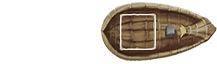
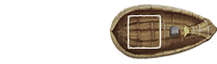
layout structure changes

Changed region(s): [[0.4424, 0.0312, 1.0, 0.9688]]

diff --git a/src/app/game/departing-harbour/departing-harbour.component.css b/src/app/game/departing-harbour/departing-harbour.component.css
@@ -5,44 +5,26 @@
   padding-left: 1%;
 }
 
-.departing_harbour_1{
+.departing_harbour{
   width: 100%;
   height:25%;
-  border: 1px solid red;
 }
 
-.departing_harbour_2{
-  width: 100%;
-  height:25%;
-  border: 1px solid red;
-}
-
-.departing_harbour_3{
-  width: 100%;
-  height:25%;
-  border: 1px solid red;
-}
-
-.departing_harbour_4{
-  width: 100%;
-  height:25%;
-  border: 1px solid red;
-}
-
+/* Ship 1 is on the bottom, ship 4 on top */
 .ship_1{
-  position:relative; top:30%; left:20%; width:225px; height:70px; border: 1px solid #54ff50;
+  position:relative; top:20%; width:225px; height:70px;
   background-image:url("../../../assets/images/ship_1.png"); background-repeat: no-repeat;
   background-position: center;
 }
-.ship_2{position:relative; top:30%; left:20%; width:225px; height:70px; border: 1px solid #54ff50;
+.ship_2{position:relative; top:20%; width:225px; height:70px;
   background-image:url("../../../assets/images/ship_2.png"); background-repeat: no-repeat;
   background-position: center;
 }
-.ship_3{position:relative; top:30%; left:20%; width:225px; height:70px; border: 1px solid #54ff50;
+.ship_3{position:relative; top:20%; width:225px; height:70px;
   background-image:url("../../../assets/images/ship_3.png"); background-repeat: no-repeat;
   background-position: center;
 }
-.ship_4{position:relative; top:30%; left:20%; width:225px; height:70px; border: 1px solid #54ff50;
+.ship_4{position:relative; top:20%; width:225px; height:70px;
   background-image:url("../../../assets/images/ship_4.png"); background-repeat: no-repeat;
   background-position: center;
 }
@@ -50,29 +32,26 @@
 .ship_slots{
   width: 77%;
   height:100%;
-  border: 1px solid #ff47e1;
 }
 
-#ship_1_slot_1{ width: 25%; height:100%; float:right; border: 1px solid #0c0c0c; }
-#ship_1_slot_2{ width: 25%; height:100%; float:right; border: 1px solid #0c0c0c; }
-#ship_1_slot_3{ width: 25%; height:100%; float:right; border: 1px solid #0c0c0c; }
-#ship_1_slot_4{ width: 25%; height:100%; float:right; border: 1px solid #0c0c0c; }
+#ship_1_slot_1{ margin-top: 10%; margin-right: 3%; margin-left: 2.3%; width: 19.5%; height:51%; float:right; border: 1px solid #0c0c0c; }
+#ship_1_slot_2{ margin-top: 10%; margin-left: 2.3%;  width: 19.5%; height:51%; float:right; border: 1px solid #0c0c0c; }
+#ship_1_slot_3{ margin-top: 10%; margin-left: 2.3%;  width: 19.5%; height:51%; float:right; border: 1px solid #0c0c0c; }
+#ship_1_slot_4{ margin-top: 10%; margin-left: 2.3%;  width: 19.5%; height:51%; float:right; border: 1px solid #0c0c0c; }
 
-#ship_2_slot_1{ width: 25%; height:100%; float:right; border: 1px solid #0c0c0c; }
-#ship_2_slot_2{ width: 25%; height:100%; float:right; border: 1px solid #0c0c0c; }
-#ship_2_slot_3{ width: 25%; height:100%; float:right; border: 1px solid #0c0c0c; }
-#ship_2_slot_4{ width: 25%; height:100%; float:right; border: 1px solid #0c0c0c; }
+#ship_2_slot_1{ margin-top: 10%; margin-right: 3%; margin-left: 2.3%; width: 19.5%; height:51%; float:right; border: 1px solid #0c0c0c; }
+#ship_2_slot_2{ margin-top: 10%; margin-left: 2.3%;  width: 19.5%; height:51%; float:right; border: 1px solid #0c0c0c; }
+#ship_2_slot_3{ margin-top: 10%; margin-left: 2.3%;  width: 19.5%; height:51%; float:right; border: 1px solid #0c0c0c; }
+#ship_2_slot_4{ margin-top: 10%; margin-left: 2.3%;  width: 19.5%; height:51%; float:right; border: 1px solid #0c0c0c; }
 
-#ship_3_slot_1{ width: 25%; height:100%; float:right; border: 1px solid #0c0c0c; }
-#ship_3_slot_2{ width: 25%; height:100%; float:right; border: 1px solid #0c0c0c; }
-#ship_3_slot_3{ width: 25%; height:100%; float:right; border: 1px solid #0c0c0c; }
-#ship_3_slot_4{ width: 25%; height:100%; float:right; border: 1px solid #0c0c0c; }
+#ship_3_slot_1{ margin-top: 10%; margin-right: 3%; margin-left: 2.3%; width: 19.5%; height:51%; float:right; border: 1px solid #0c0c0c; }
+#ship_3_slot_2{ margin-top: 10%; margin-left: 2.3%;  width: 19.5%; height:51%; float:right; border: 1px solid #0c0c0c; }
+#ship_3_slot_3{ margin-top: 10%; margin-left: 2.3%;  width: 19.5%; height:51%; float:right; border: 1px solid #0c0c0c; }
+#ship_3_slot_4{ margin-top: 10%; margin-left: 2.3%;  width: 19.5%; height:51%; float:right; border: 1px solid #0c0c0c; }
 
-#ship_4_slot_1{ width: 25%; height:100%; float:right; border: 1px solid #0c0c0c; }
-#ship_4_slot_2{ width: 25%; height:100%; float:right; border: 1px solid #0c0c0c; }
-#ship_4_slot_3{ width: 25%; height:100%; float:right; border: 1px solid #0c0c0c; }
-#ship_4_slot_4{ width: 25%; height:100%; float:right; border: 1px solid #0c0c0c; }
-
-
+#ship_4_slot_1{ margin-top: 10%; margin-right: 3%; margin-left: 2.3%; width: 19.5%; height:51%; float:right; border: 1px solid #0c0c0c; }
+#ship_4_slot_2{ margin-top: 10%; margin-left: 2.3%;  width: 19.5%; height:51%; float:right; border: 1px solid #0c0c0c; }
+#ship_4_slot_3{ margin-top: 10%; margin-left: 2.3%;  width: 19.5%; height:51%; float:right; border: 1px solid #0c0c0c; }
+#ship_4_slot_4{ margin-top: 10%; margin-left: 2.3%;  width: 19.5%; height:51%; float:right; border: 1px solid #0c0c0c; }
 
 

diff --git a/src/app/game/site-harbour/site-harbour.component.css b/src/app/game/site-harbour/site-harbour.component.css
@@ -14,7 +14,12 @@
   border: 1px solid chocolate;
 }
 
-.arriving_harbours{float:left; width: 100%; height:100%;}
+.arriving_harbours{
+  float:left;
+  width: 100%;
+  height:100%;
+}
+
 .arriving_harbour_1 {
   width: 300%;
   height: 25%;
@@ -26,7 +31,7 @@
 .arriving_harbour_2 {
   width: 300%;
   height: 25%;
-  padding-top: 25%;
+  padding-top: 5%;
   padding-bottom: 25%;
   padding-left: -100%;
   margin-left: -100%;
@@ -34,7 +39,7 @@
 .arriving_harbour_3 {
   width: 300%;
   height: 25%;
-  padding-top: 25%;
+  padding-top: 40%;
   padding-bottom: 25%;
   padding-left: -100%;
   margin-left: -100%;

diff --git a/src/app/game/game.component.css b/src/app/game/game.component.css
@@ -16,12 +16,17 @@
   height: 100%;
   position: relative;
   background-size:cover;
-  background-color: rgba(200, 200, 20, 0.4);
+  float: left;
+}
+
+.spacing_left{
+  height: 100%;
+  width: 1%;
   float: left;
 }
 
 .container_middle {
-  width: 60%;
+  width: 59%;
   height: 100%;
   position: relative;
   float: left;
@@ -93,6 +98,7 @@
   background-repeat: no-repeat;
   background-size: auto;
   background-position: center;
+  margin-left: -2%;
 }
 
 .game_board{

diff --git a/src/app/game/departing-harbour/departing-harbour.component.html b/src/app/game/departing-harbour/departing-harbour.component.html
@@ -4,7 +4,7 @@
 
   <!--add ships to departing harbours-->
     <div *ngFor="let ship of ships; let i = index"
-         id="departing_harbour_{{i+1}}" class="departing_harbour_{{i+1}}"
+         id="departing_harbour_{{i+1}}" class="departing_harbour"
          [dragula]="'harbours_bag'">
 
       <div id="ship_{{i+1}}" class="ship_{{ship.size}}">
@@ -25,6 +25,11 @@
     </div>
 
 </div>
+
+
+
+
+
 
 
   <!--Example

diff --git a/src/app/game/game.component.html b/src/app/game/game.component.html
@@ -20,6 +20,7 @@
     </div>
   </div>
 
+  <div class="spacing_left"></div>
 
 
   <!-- Main Middle game container -->
